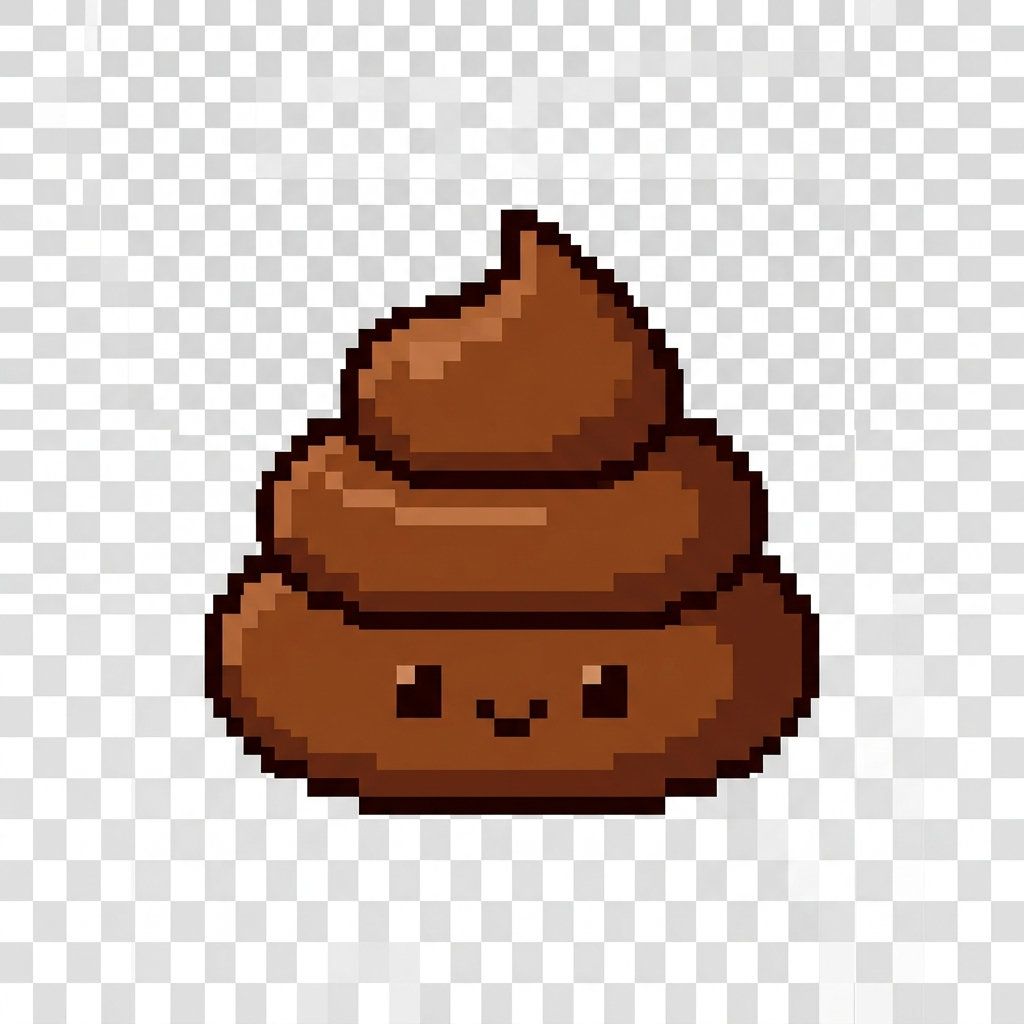
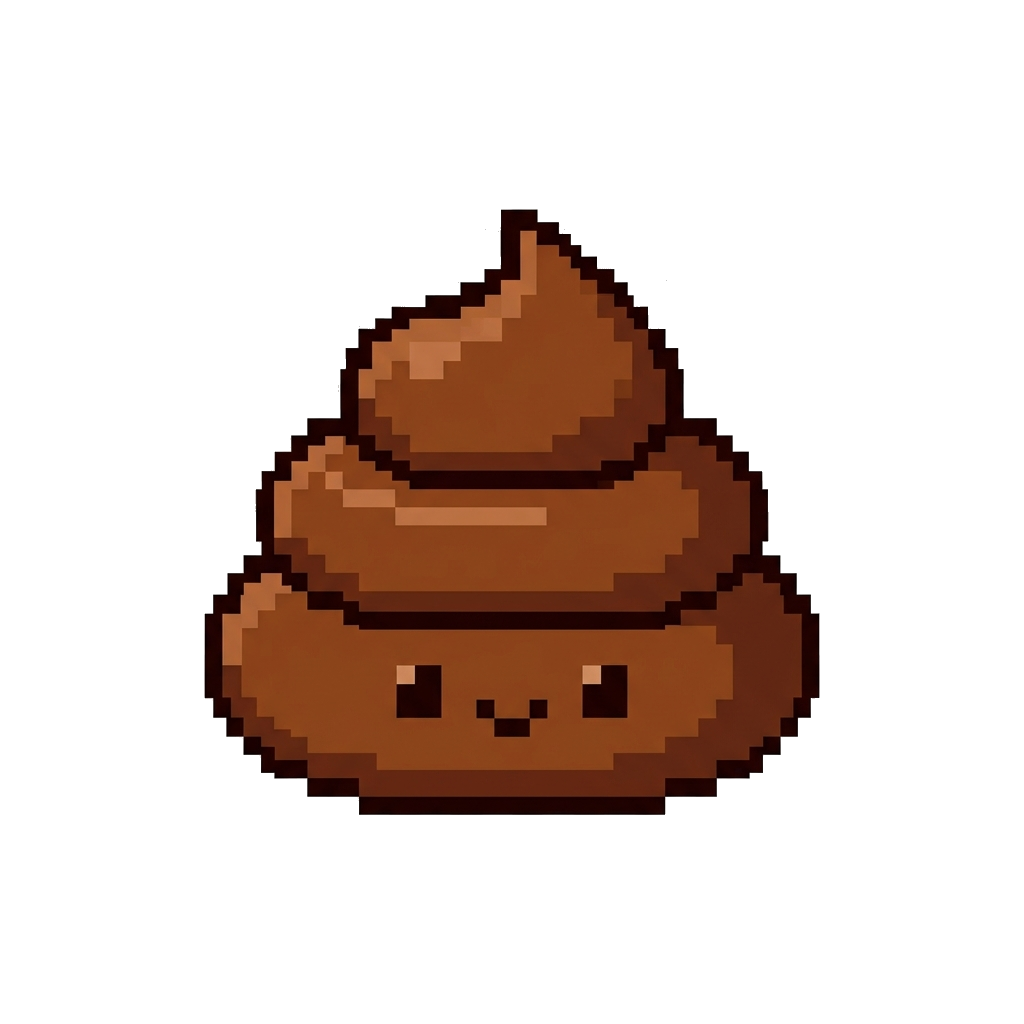
Admin mode for dog age, removed checkerboard backgrounds from images

diff --git a/lib/widgets/shiba_pet_widget.dart b/lib/widgets/shiba_pet_widget.dart
@@ -8,6 +8,7 @@ import '../src/firebase_service.dart';
 import '../api_constants.dart';
 import 'package:go_router/go_router.dart';
 import 'dart:async';
+import 'package:firebase_auth/firebase_auth.dart';
 
 class ShibaPetWidget extends StatefulWidget {
   const ShibaPetWidget({super.key});
@@ -138,6 +139,32 @@ class _ShibaPetWidgetState extends State<ShibaPetWidget> {
     );
   }
 
+  Future<void> _forceAgeUpAdmin() async {
+    setState(() => _isLoading = true);
+    try {
+      final headers = await getAuthHeaders();
+      final response = await http.post(
+        Uri.parse('${ApiConstants.baseUrl}/pet-admin-age-up'),
+        headers: headers,
+      );
+
+      final data = jsonDecode(response.body);
+      if (response.statusCode == 200 && data['success']) {
+        if (mounted) {
+          ScaffoldMessenger.of(context).showSnackBar(const SnackBar(content: Text('Aged up 30 days!'), backgroundColor: Colors.green));
+          _fetchPetStatus(); // Refresh UI
+        }
+      } else {
+        if (mounted) {
+          ScaffoldMessenger.of(context).showSnackBar(SnackBar(content: Text(data['error'] ?? 'Error'), backgroundColor: Colors.red));
+          setState(() => _isLoading = false);
+        }
+      }
+    } catch (e) {
+      if (mounted) setState(() => _isLoading = false);
+    }
+  }
+
   @override
   Widget build(BuildContext context) {
     final theme = Provider.of<ThemeProvider>(context);
@@ -196,6 +223,13 @@ class _ShibaPetWidgetState extends State<ShibaPetWidget> {
                           label: const Text("Sleep", style: TextStyle(fontSize: 11)),
                           style: ElevatedButton.styleFrom(backgroundColor: Colors.blue, foregroundColor: Colors.white, padding: const EdgeInsets.symmetric(horizontal: 8, vertical: 0)),
                         ),
+                        if (FirebaseAuth.instance.currentUser?.email == 'ludogx1@gmail.com')
+                          ElevatedButton.icon(
+                            onPressed: _isLoading ? null : _forceAgeUpAdmin,
+                            icon: const Icon(Icons.fast_forward, size: 16),
+                            label: const Text("Admin: +30 Days", style: TextStyle(fontSize: 11)),
+                            style: ElevatedButton.styleFrom(backgroundColor: Colors.purple, foregroundColor: Colors.white, padding: const EdgeInsets.symmetric(horizontal: 8, vertical: 0)),
+                          ),
                       ],
                     ),
                     const SizedBox(height: 10),

diff --git a/backend/src/routes/petRoutes.js b/backend/src/routes/petRoutes.js
@@ -289,4 +289,33 @@ router.post('/pet-clean-poo', verifyFirebaseToken, async (req, res) => {
   }
 });
 
+router.post('/pet-admin-age-up', verifyFirebaseToken, async (req, res) => {
+  try {
+    // Basic admin check (could use custom claims, but hardcoding email is consistent with the frontend for now)
+    const userRecord = await admin.auth().getUser(req.user.uid);
+    if (userRecord.email !== 'ludogx1@gmail.com') {
+      return res.status(403).json({ success: false, error: 'Admin only' });
+    }
+
+    const userRef = admin.firestore().collection('users').doc(req.user.uid);
+    await admin.firestore().runTransaction(async (transaction) => {
+      const snapshot = await transaction.get(userRef);
+      const data = snapshot.data() || {};
+      if (!data.pet_birth_date) throw new Error('Pet not initialized');
+
+      // Subtract 30 days from birth date to age it up
+      const oldBirthTime = data.pet_birth_date.toDate().getTime();
+      const newBirthTime = oldBirthTime - (30 * 24 * 60 * 60 * 1000);
+      
+      transaction.update(userRef, {
+        pet_birth_date: admin.firestore.Timestamp.fromMillis(newBirthTime)
+      });
+    });
+
+    res.json({ success: true, message: 'Aged up by 30 days!' });
+  } catch (error) {
+    res.status(400).json({ success: false, error: error.message });
+  }
+});
+
 module.exports = router;
